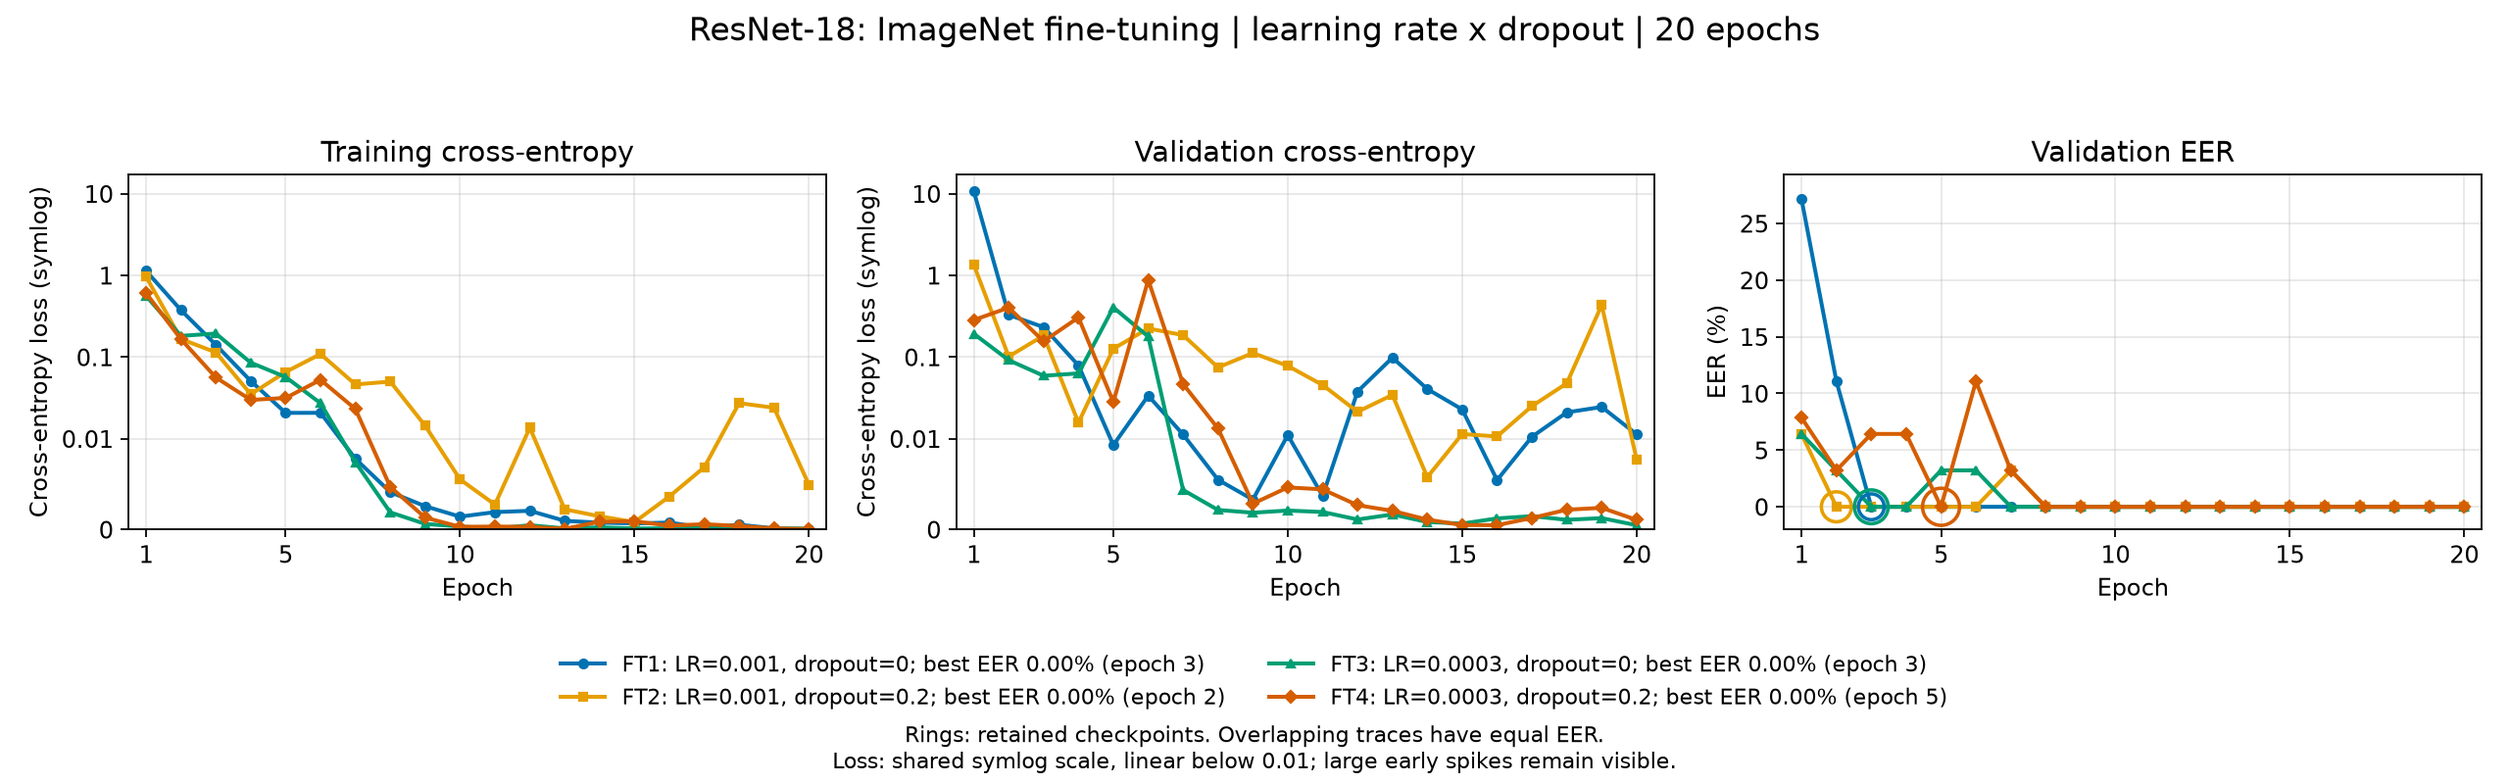
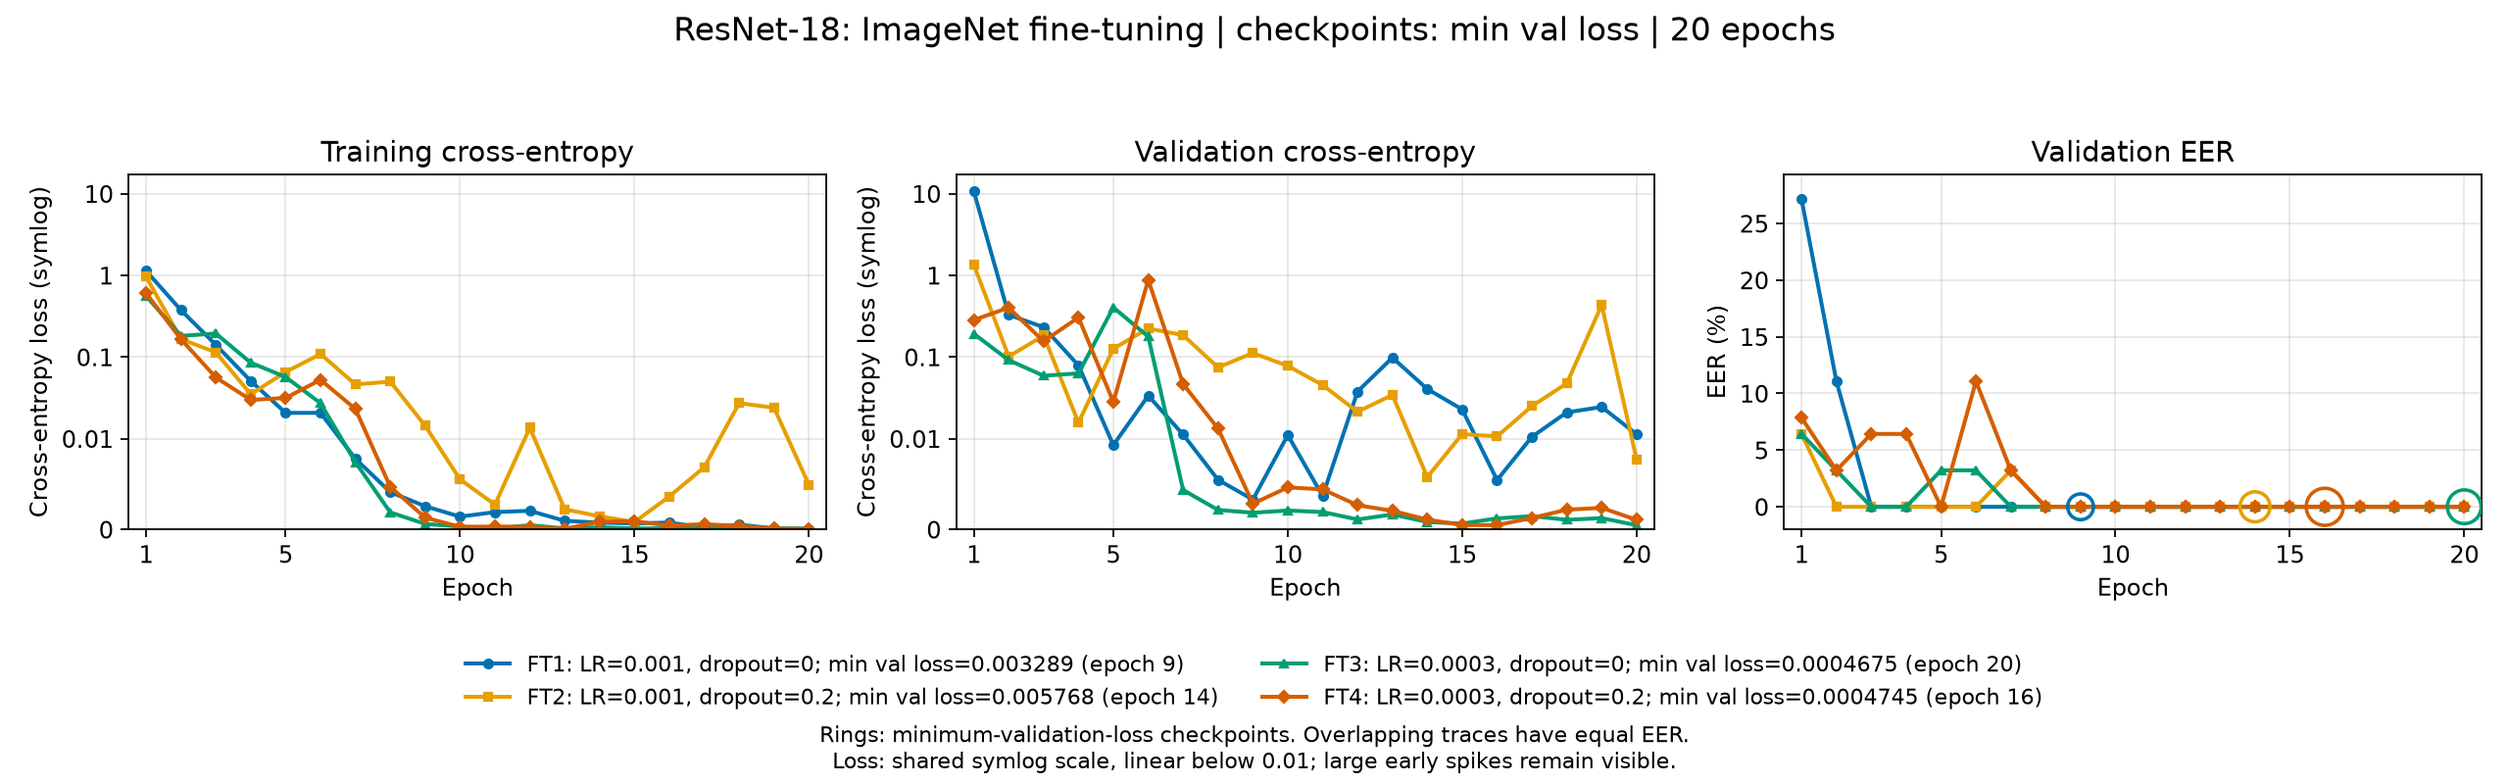
Select ResNet-18 checkpoints by minimum validation loss
Add configurable checkpoint selection shared with early stopping, retaining backward-compatible EER defaults and run hashes. Disable early stopping in the ResNet-18 fine-tuning grid and select runs by validation loss. Retrain all four variants for 20 epochs, verify retained weights against loss minima, and update the report and figures. Add regression coverage for late improvements after zero EER, early stopping, and cache compatibility.

diff --git a/analyze_resnet18.py b/analyze_resnet18.py
@@ -24,10 +24,12 @@ DATA_SHA1 = "10ac1fb033e3b1845bc52ea2e2229c2982ad11f0"
 BASE = ExperimentConfig(
     model="resnet18",
     member="petr",
-    topic="resnet18_review_grid",
+    topic="resnet18_val_loss",
     pretrained=True,
     init="he",  # Initializes the new classifier; pretrained backbone weights are retained.
     epochs=20,
+    checkpoint_metric="loss",
+    early_stopping_patience=0,
     export_onnx=False,
 )
 GRID = {"lr": [1e-3, 3e-4], "dropout": [0.0, 0.2]}
@@ -130,7 +132,7 @@ def plot_grid(records, out):
         h = r.history
         label = (
             f"{name}: LR={r.cfg.lr:g}, dropout={r.cfg.dropout:g}; "
-            f"best EER {100 * r.metrics['val']['eer']:.2f}% (epoch {r.metrics['best_epoch']})"
+            f"min val loss={r.metrics['val']['loss']:.4g} (epoch {r.metrics['best_epoch']})"
         )
         for ax, column, scale in zip(
             axes, ("train_loss", "val_loss", "val_eer"), (1, 1, 100), strict=True
@@ -169,7 +171,7 @@ def plot_grid(records, out):
             top = max(float(r.history.val_eer.max() * 100) for _, r in records)
             ax.set_ylim(-2, max(5, top * 1.08))
     fig.suptitle(
-        "ResNet-18: ImageNet fine-tuning | learning rate x dropout | 20 epochs", fontsize=15
+        "ResNet-18: ImageNet fine-tuning | checkpoints: min val loss | 20 epochs", fontsize=15
     )
     fig.legend(
         handles,
@@ -183,7 +185,7 @@ def plot_grid(records, out):
     fig.text(
         0.5,
         0.02,
-        "Rings: retained checkpoints. Overlapping traces have equal EER.\n"
+        "Rings: minimum-validation-loss checkpoints. Overlapping traces have equal EER.\n"
         "Loss: shared symlog scale, linear below 0.01; large early spikes remain visible.",
         ha="center",
         fontsize=10,
@@ -245,7 +247,7 @@ def main():
     parser.add_argument(
         "--train", action="store_true", help="Train missing runs; keep completed runs"
     )
-    parser.add_argument("--out", type=Path, default=Path("runs/petr/resnet18_review/report"))
+    parser.add_argument("--out", type=Path, default=Path("runs/petr/resnet18_val_loss/report"))
     args = parser.parse_args()
     fp = data_fingerprint(args.data)
     if fp["sha1"] != DATA_SHA1:
@@ -259,12 +261,15 @@ def main():
         expected = list(range(1, int(r.metrics["epochs_run"]) + 1))
         if r.history.epoch.tolist() != expected or len(expected) != 20:
             raise ValueError(f"Incomplete history: {name}")
+        expected_best = int(r.history.loc[r.history.val_loss.idxmin(), "epoch"])
+        if r.metrics["select_metric"] != "loss" or r.metrics["best_epoch"] != expected_best:
+            raise ValueError(f"Checkpoint is not the minimum-validation-loss epoch: {name}")
+        if not np.isclose(r.metrics["val"]["loss"], r.history.val_loss.min(), atol=1e-7):
+            raise ValueError(f"Checkpoint loss does not match history: {name}")
         errors = audit_predictions(r, frames)
         records.append((name, r, errors))
     grid = [(name, r) for name, r, _ in records]
-    selected_name, selected = min(
-        grid, key=lambda x: (x[1].metrics["val"]["eer"], x[1].metrics["val"]["loss"], x[0])
-    )
+    selected_name, selected = min(grid, key=lambda x: (x[1].metrics["val"]["loss"], x[0]))
     if data_fingerprint(args.data)["sha1"] != fp["sha1"]:
         raise ValueError("Dataset changed during training; report generation refused")
     args.out.mkdir(parents=True, exist_ok=True)

diff --git a/tests/test_checkpoint_selection.py b/tests/test_checkpoint_selection.py
@@ -1,0 +1,88 @@
+"""Regression: an early zero EER must not lock a loss-monitored checkpoint."""
+
+import hashlib
+import json
+
+import numpy as np
+import pytest
+import torch
+from torch import nn
+from torch.utils.data import DataLoader, TensorDataset
+
+import iml.train as training
+from iml.config import ExperimentConfig
+from iml.runs import classification_metrics, load_checkpoint
+from iml.tracking import Tracker
+
+
+def test_checkpoint_metric_validation_and_legacy_names():
+    cfg = ExperimentConfig()
+    legacy = cfg.to_dict()
+    legacy.pop("checkpoint_metric")
+    for key in ("member", "topic", "tags", "notes", "num_workers", "export_onnx"):
+        legacy.pop(key)
+    expected = hashlib.sha1(json.dumps(legacy, sort_keys=True).encode()).hexdigest()[:6]
+    assert cfg.config_hash() == expected
+    assert cfg.run_name() != cfg.with_overrides("checkpoint_metric=loss").run_name()
+    with pytest.raises(ValueError, match="checkpoint_metric"):
+        ExperimentConfig(checkpoint_metric="test_loss")
+
+
+@pytest.mark.parametrize(
+    ("metric", "patience", "losses", "best_epoch", "epochs_run"),
+    [
+        ("loss", 0, [0.4, 0.2, 0.05, 0.1], 3, 4),
+        ("eer", 0, [0.4, 0.2, 0.05, 0.1], 1, 4),
+        ("loss", 1, [0.4, 0.2, 0.05, 0.1], 3, 4),
+        ("loss", 1, [0.4, 0.2, 0.3, 0.1], 2, 3),
+    ],
+)
+def test_fit_retains_correct_weights_and_uses_same_early_stop_monitor(
+    tmp_path, monkeypatch, metric, patience, losses, best_epoch, epochs_run
+):
+    monkeypatch.setattr(training, "build_model", lambda cfg: nn.Linear(1, 2))
+    epoch_counter = 0
+
+    def train_epoch(model, *args):
+        nonlocal epoch_counter
+        epoch_counter += 1
+        with torch.no_grad():
+            model.weight.fill_(epoch_counter)
+        return 1 / epoch_counter
+
+    def evaluate(model, loader, device, **kwargs):
+        epoch = int(model.weight[0, 0].item())
+        labels, scores = np.array([0, 1]), np.array([0.1, 0.9])
+        out = classification_metrics(labels, scores >= kwargs.get("threshold", 0.5), scores)
+        out.update(
+            loss=losses[epoch - 1], _labels=labels, _scores=scores, _stds=np.zeros_like(scores)
+        )
+        return out
+
+    monkeypatch.setattr(training, "train_one_epoch", train_epoch)
+    monkeypatch.setattr(training, "evaluate", evaluate)
+    cfg = ExperimentConfig(
+        epochs=4,
+        checkpoint_metric=metric,
+        early_stopping_patience=patience,
+        export_onnx=False,
+        amp=False,
+        num_workers=0,
+    )
+    loader = DataLoader(TensorDataset(torch.zeros(2, 1), torch.tensor([0, 1])), batch_size=2)
+    record = training.fit(
+        cfg,
+        {s: loader for s in ("train", "val", "test")},
+        root=tmp_path,
+        device=torch.device("cpu"),
+        tracker=Tracker(enabled=False),
+        verbose=False,
+    )
+    assert record.metrics["best_epoch"] == best_epoch
+    assert record.metrics["epochs_run"] == epochs_run
+    assert record.metrics["select_metric"] == metric
+    assert record.metrics["val"]["loss"] == losses[best_epoch - 1]
+    best = load_checkpoint(record.path / "best.pt", torch.device("cpu"))
+    last = load_checkpoint(record.path / "last.pt", torch.device("cpu"))
+    assert torch.all(best["state_dict"]["weight"] == best_epoch)
+    assert torch.all(last["state_dict"]["weight"] == epochs_run)

diff --git a/src/iml/train.py b/src/iml/train.py
@@ -1,7 +1,8 @@
 """The one training loop everybody uses: ``fit(cfg, loaders) -> RunRecord``.
 
 Features: optimizer/scheduler from config, AMP on the GPU (HIP/ROCm or CUDA), gradient
-clipping, early stopping and checkpoint selection on validation EER, best/last checkpoints,
+clipping, early stopping and checkpoint selection on the configured validation metric,
+best/last checkpoints,
 per-epoch history, a decision threshold chosen on the validation set (FAR == FRR point) and
 FAR/FRR/EER on every split at that threshold, optional Monte-Carlo dropout, optional MLflow,
 and a verified ``model.onnx`` next to ``best.pt`` (``cfg.export_onnx``).
@@ -223,9 +224,17 @@ def _public(metrics: dict[str, Any]) -> dict[str, Any]:
     return {k: v for k, v in metrics.items() if not k.startswith("_")}
 
 
-def _selection_score(ev: dict[str, Any]) -> float:
-    """Higher is better: negative EER (threshold-free, the spec's criterion); macro-F1 if EER
-    is undefined (single-class validation set)."""
+def _selection_score(ev: dict[str, Any], metric: str = "eer") -> float:
+    """Higher is better: negate the configured quantity to minimize it.
+
+    EER remains the backward-compatible default, with macro-F1 as its single-class fallback.
+    Loss selection uses the same criterion for checkpoint retention and early stopping.
+    """
+    if metric == "loss":
+        loss = float(ev["loss"])
+        if not math.isfinite(loss):
+            raise ValueError("Non-finite validation loss; checkpoint selection refused")
+        return -loss
     e = ev.get("eer", float("nan"))
     return -e if math.isfinite(e) else ev["macro_f1"]
 
@@ -348,7 +357,7 @@ def fit(
             frr=f"{ev['frr']:.2f}",
         )
 
-        score = _selection_score(ev)
+        score = _selection_score(ev, cfg.checkpoint_metric)
         if score > best_score:
             best_score, best_epoch, bad_epochs = score, epoch, 0
             save_checkpoint(out / "best.pt", model, cfg, epoch, ev)
@@ -376,7 +385,13 @@ def fit(
         "epochs_run": epoch,
         "params": count_params(model),
         "select_split": select_split,
-        "select_metric": "eer" if math.isfinite(sel.get("eer", float("nan"))) else "macro_f1",
+        "select_metric": (
+            "loss"
+            if cfg.checkpoint_metric == "loss"
+            else "eer"
+            if math.isfinite(sel.get("eer", float("nan")))
+            else "macro_f1"
+        ),
         "decision_threshold": threshold,
     }
     for split, loader in loaders.items():

diff --git a/src/iml/config.py b/src/iml/config.py
@@ -86,6 +86,7 @@ class ExperimentConfig:
     num_workers: int = 2
 
     # --- evaluation ---
+    checkpoint_metric: str = "eer"  # eer | loss; minimize on validation for checkpoint/early stop
     mc_dropout_samples: int = 0  # >0: Monte-Carlo dropout with that many stochastic passes
     export_onnx: bool = True  # write + verify <run>/model.onnx at the end of fit (iml.export)
 
@@ -99,6 +100,8 @@ class ExperimentConfig:
             raise ValueError('model="custom" needs a non-empty arch (list of layer dicts)')
         if self.model != "custom" and self.arch:
             raise ValueError(f"arch is only used by model='custom'; {self.model} needs arch=[]")
+        if self.checkpoint_metric not in {"eer", "loss"}:
+            raise ValueError("checkpoint_metric must be eer or loss")
         if self.epochs < 1:
             raise ValueError("epochs must be >= 1")
         if self.mc_dropout_samples > 0 and self.dropout <= 0:
@@ -168,6 +171,9 @@ class ExperimentConfig:
 
     def config_hash(self, n: int = 6) -> str:
         payload = {k: v for k, v in self.to_dict().items() if k not in _BOOKKEEPING}
+        # Preserve names of historical EER-selected runs; loss selection is a new experiment.
+        if self.checkpoint_metric == "eer":
+            payload.pop("checkpoint_metric")
         return hashlib.sha1(json.dumps(payload, sort_keys=True).encode()).hexdigest()[:n]
 
     def run_name(self, max_slug: int = 60) -> str:

diff --git a/reports/resnet18/README.md b/reports/resnet18/README.md
@@ -2,20 +2,21 @@
 
 ## Setup and run IDs
 
-This report compares **four fine-tuning runs**, FT1–FT4. Every run loads ImageNet weights
+This report compares **four fresh fine-tuning runs**, FT1–FT4, selected by validation loss. Every run loads ImageNet weights
 and trains the full ResNet-18, including a new two-class head. This experiment does not train
-from scratch. The four runs already completed 20 epochs; this plotting revision adds no training.
-Their former IDs were G1, G3, G5 and G7, respectively; the retained checkpoints are unchanged.
+from scratch. All four runs complete 20 epochs with `checkpoint_metric="loss"` and
+`early_stopping_patience=0`: the custom equivalent of `monitor="val_loss", mode="min"`.
+These are fresh runs in `runs/petr/resnet18_val_loss/`; earlier EER-selected runs remain separate.
 
 - Dataset: `training_dataset_v2`, **513 train / 63 validation / 63 test** clips.
   Validation and test each contain 28 allowed and 35 not-allowed clips.
 - Input: 3 seconds, 16 kHz, 80 log-mel bins, FFT 512, hop 160, per-sample normalization.
 - Fixed settings: Adam, batch 32, weight decay 0, seed 42, no scheduler, no early stopping.
   All four runs train for 20 epochs on an AMD Radeon 8060S / ROCm. No augmentation is active.
-- **FT1:** LR 0.001, dropout 0; retained epoch 3, validation EER 0%.
-- **FT2:** LR 0.001, dropout 0.2; retained epoch 2, validation EER 0%.
-- **FT3:** LR 0.0003, dropout 0; retained epoch 3, validation EER 0%.
-- **FT4:** LR 0.0003, dropout 0.2; retained epoch 5, validation EER 0%.
+- **FT1:** LR 0.001, dropout 0; minimum validation loss **0.0032893** at **epoch 9**, EER 0%.
+- **FT2:** LR 0.001, dropout 0.2; minimum validation loss **0.0057680** at **epoch 14**, EER 0%.
+- **FT3:** LR 0.0003, dropout 0; minimum validation loss **0.0004675** at **epoch 20**, EER 0%.
+- **FT4:** LR 0.0003, dropout 0.2; minimum validation loss **0.0004745** at **epoch 16**, EER 0%.
 
 Initialization is delegated to `src/iml/models/__init__.py`: the ImageNet backbone is preserved,
 its RGB stem is folded to one channel, and the new two-class Linear head uses He/Kaiming-normal
@@ -27,7 +28,7 @@ shared `fit()` loop; the script does not implement another model or training alg
 ![ResNet-18 fine-tuning: train loss, validation loss and validation EER for every run](plots/learning_curves.png)
 
 The layout follows Artem's architecture report: **one panel per metric**, consistent run colors
-and markers, one bottom legend, and rings marking retained checkpoints. Every line is one run;
+and markers, one bottom legend, and rings marking minimum-validation-loss checkpoints. Every line is one run;
 its 20 points are epochs, not 20 independent runs. Both loss panels share one symlog y scale: linear below 0.01, logarithmic above. This keeps
 large early spikes and small later losses visible without removing zero values.
 Training loss is measured during weight updates; validation loss uses the end-of-epoch model
@@ -37,27 +38,44 @@ ImageNet fine-tuning separates this validation set quickly. Zero EER persists ac
 epochs, rather than appearing at only one isolated lucky checkpoint. This does not establish
 reliable generalization or a dropout advantage: each setting has only one seed.
 
-## Selected checkpoint and score separation
+## Checkpoint selection and results
 
-The shared loop retains the **first** epoch attaining the lowest validation EER. Across runs,
-selection uses validation EER, then checkpoint validation loss, then run ID. This selects **FT4,
-epoch 5**, with validation loss **0.02818**. The validation-derived threshold is **0.114268**.
-The following FAR/FRR and accuracy values all use that same fixed threshold:
+The experiment minimizes **validation loss**, independently of EER. EER remains a reported
+metric and cannot lock checkpoint selection at its first zero. Early stopping is disabled:
+`last.pt` is epoch 20 for every run, while `best.pt` is the actual loss minimum in its history.
+The same configured loss criterion would control early stopping if patience were enabled.
+The shared library keeps EER selection as its default for other experiments and preserves
+historical EER run names. Loss-selected configs receive distinct run names and cannot reuse
+old EER-selected checkpoints.
 
-- **Train:** accuracy 99.80%, FAR 0.35% (1/284), FRR 0% (0/228).
-  The shared training loader drops its last partial batch, so this evaluation contains 512 clips.
-- **Validation:** accuracy 100%, FAR 0% (0/35), FRR 0% (0/28), EER 0%.
-- **Test:** accuracy **84.13%**, FAR **17.14% (6/35)**, FRR **14.29% (4/28)**.
-  All six false accepts are T clips; all four false rejects are M clips.
+The four loss-selected epochs are **9, 14, 20 and 16**; the first best-EER epochs in these same
+histories are **3, 2, 3 and 5**. The reproducer checks every best epoch against `val_loss.idxmin()`.
+Across configurations, selection now also minimizes checkpoint validation loss, with run ID
+only as a tie-break. No test metric participates in either selection.
 
-![Selected FT4 checkpoint: validation and test clip scores at one fixed threshold](plots/score_distributions.png)
+This selects **FT3, epoch 20**: LR 0.0003, dropout 0, validation loss
+**0.0004675**. After loading these weights, the decision threshold is calibrated on
+validation scores using the existing EER-point rule: **0.495224**. Changing the checkpoint
+criterion does not fit a threshold on test. At that one fixed validation threshold:
 
-On validation, the largest not-allowed score is **0.02688** and the smallest allowed score is
-**0.20166**: a threshold between them separates every clip. This is why validation EER is zero.
-On test, class scores overlap. EER sweeps thresholds separately within a split; it is not the
-error rate on all datasets. The shared EER uses a nearest empirical ROC-point estimate; tied
-candidate points can be affected by floating-point rounding, but independent interpolation
-also confirms the zero validation EERs.
+- **Train:** accuracy 100.00%, FAR 0.00%, FRR 0.00%.
+  The shared training loader drops its last partial batch; this evaluation has 512 clips.
+- **Validation:** accuracy 100.00%, FAR 0.00%, FRR 0.00%, EER 0.00%.
+- **Test:** accuracy **87.30%**, FAR **14.29% (5/35)**, FRR **10.71% (3/28)**.
+  All five false accepts are T clips; the false rejects are one MS, one M and one P clip.
+
+![Selected checkpoint: validation and test scores at one fixed threshold](plots/score_distributions.png)
+
+The largest negative validation score is **0.004322**, and the smallest positive score
+is **0.986125**. They remain separated, so validation EER is still zero even after
+selecting a much later checkpoint by loss. Test scores still overlap. This change fixes the
+checkpoint-selection objective; it does not establish that early EER selection caused the gap
+or that microphone/session overfitting is its proven cause. These are fresh GPU runs, not a
+strict paired causal comparison with the previous retained checkpoints.
+
+EER is a per-split score-separation metric, not a joint train/test error rate. The shared
+nearest-ROC-point estimate can be affected by rounding at tied candidates; independent
+interpolation also confirmed the zero EERs in the previous fine-tuning audit.
 
 ## Why validation may look too optimistic
 
@@ -76,7 +94,7 @@ coverage of devices, rooms and sessions as independent recordings. Documented ph
 differences could also let the model exploit the recording channel rather than stable voice cues;
 we have not established that this is the cause of the errors.
 
-**Model-selection optimism:** validation does not contribute gradients, but it selects epochs,
+**Model-selection optimism:** validation does not contribute gradients, but it selects epochs by loss,
 hyperparameters and the decision threshold. Repeatedly choosing the best result on the same finite
 validation set can favor an accidentally optimistic estimate; this is overfitting through model
 selection, not proof that train files entered validation ([Cawley and Talbot, 2010](https://www.jmlr.org/papers/v11/cawley10a.html)).
@@ -102,10 +120,14 @@ uv run iml-data validate data/training_dataset_v2
 uv run python analyze_resnet18.py --train
 ```
 
-Only missing ImageNet fine-tuning variants are trained; matching finished runs are reused.
+Only missing loss-monitored ImageNet fine-tuning variants are trained; matching finished runs are reused.
 Omit `--train` to audit existing predictions and regenerate the two figures without training.
 Dataset SHA1: `10ac1fb033e3b1845bc52ea2e2229c2982ad11f0`.
-Configs, histories, audit receipts, predictions and weights stay in `runs/petr/resnet18_review*/`
+Configs, histories, audit receipts, predictions and weights stay in `runs/petr/resnet18_val_loss/`
 on Coder, outside Git. MLflow receives quality metrics only when reachable; it was unreachable
 for these runs, so they were not tracked there. The selected ONNX export matches PyTorch
-(max absolute output difference 2.38e-6). Only this README, the two figures and the script are published.
+(max absolute output difference 5.72e-6). Only this README, the two figures and the script are published.
+
+Validation: 69 core tests passed, including late loss-minimum checkpoint retention, consistent
+early-stopping monitoring and compatibility of historical EER run names. All four new
+checkpoints were verified against their histories and all last checkpoints are at epoch 20.

diff --git a/README.md b/README.md
@@ -81,9 +81,15 @@ and `model.onnx` (exported from `best.pt` at the end of `fit` and verified again
 onnxruntime; `export_onnx=false` skips it, `make export RUN=...` redoes it by hand).
 Set `mc_dropout_samples` > 0 (with `dropout` > 0) to evaluate with Monte-Carlo dropout.
 
-Evaluation protocol: the checkpoint with the lowest validation EER is kept; the decision
+Evaluation protocol: by default, the checkpoint with the lowest validation EER is kept; the decision
 threshold is the FAR == FRR point on the validation set (`decision_threshold` in
 `metrics.json` and in `best.pt`) and is applied unchanged to train/val/test and by `app/`.
+Set `checkpoint_metric=loss` (CLI: `--set checkpoint_metric=loss`) to minimize validation
+loss for checkpoint selection and early stopping instead. `early_stopping_patience=0`
+disables early stopping, so all configured epochs run. The decision threshold is still
+calibrated on validation scores after loading the retained checkpoint. The default EER
+mode and historical EER run names remain unchanged.
+
 `class_weight=balanced` reweights the cross-entropy by inverse class frequency. A finished
 run folder is loaded instead of retrained (`--overwrite` / `fit(..., overwrite=True)` to redo).
 With `pretrained=true` (the default) the ImageNet weights are loaded and `init` is ignored, so
